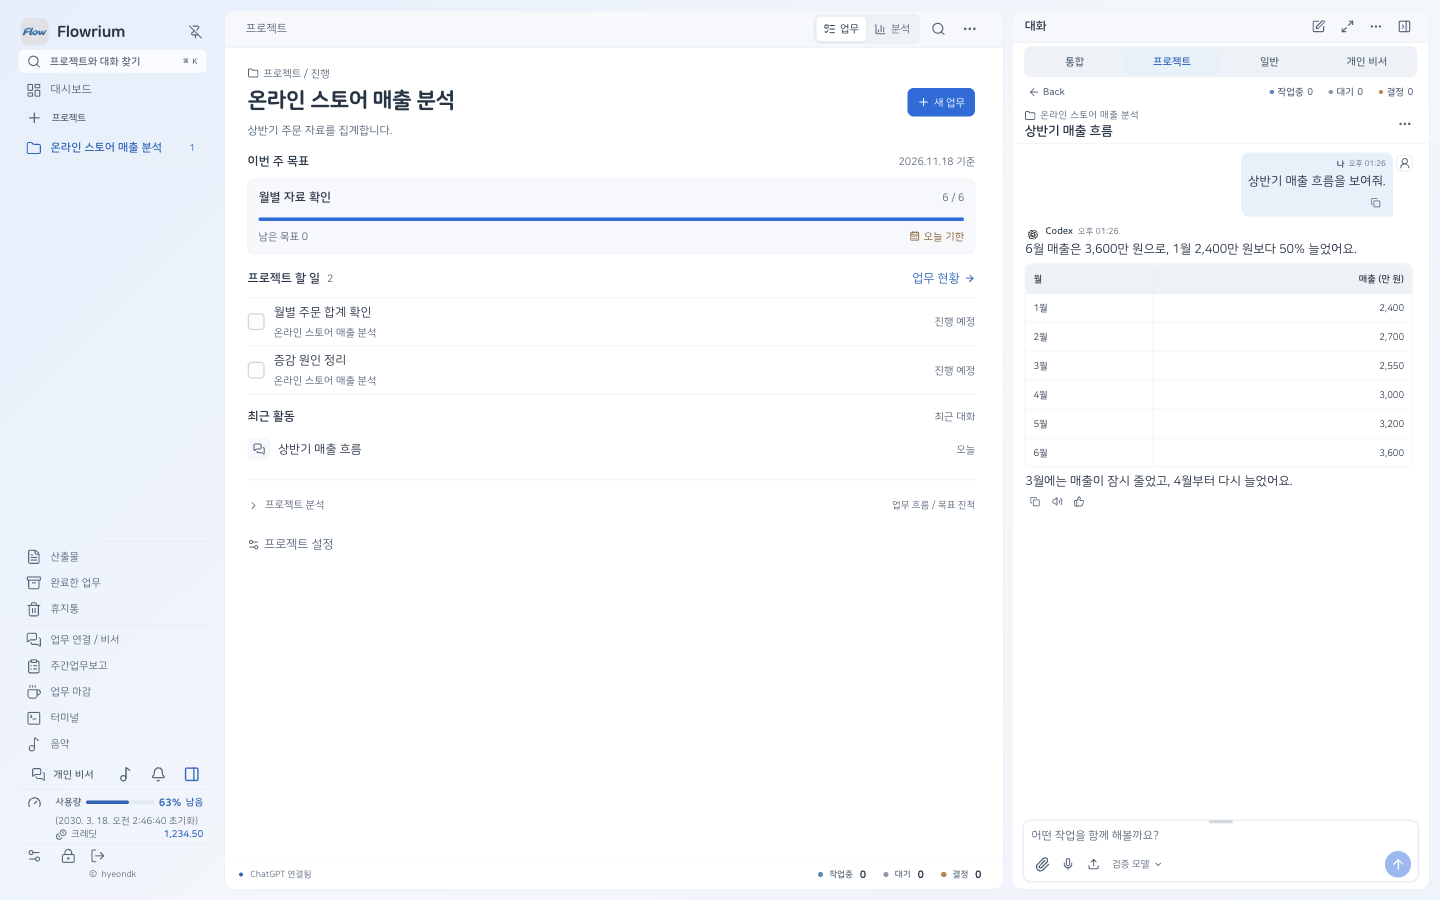
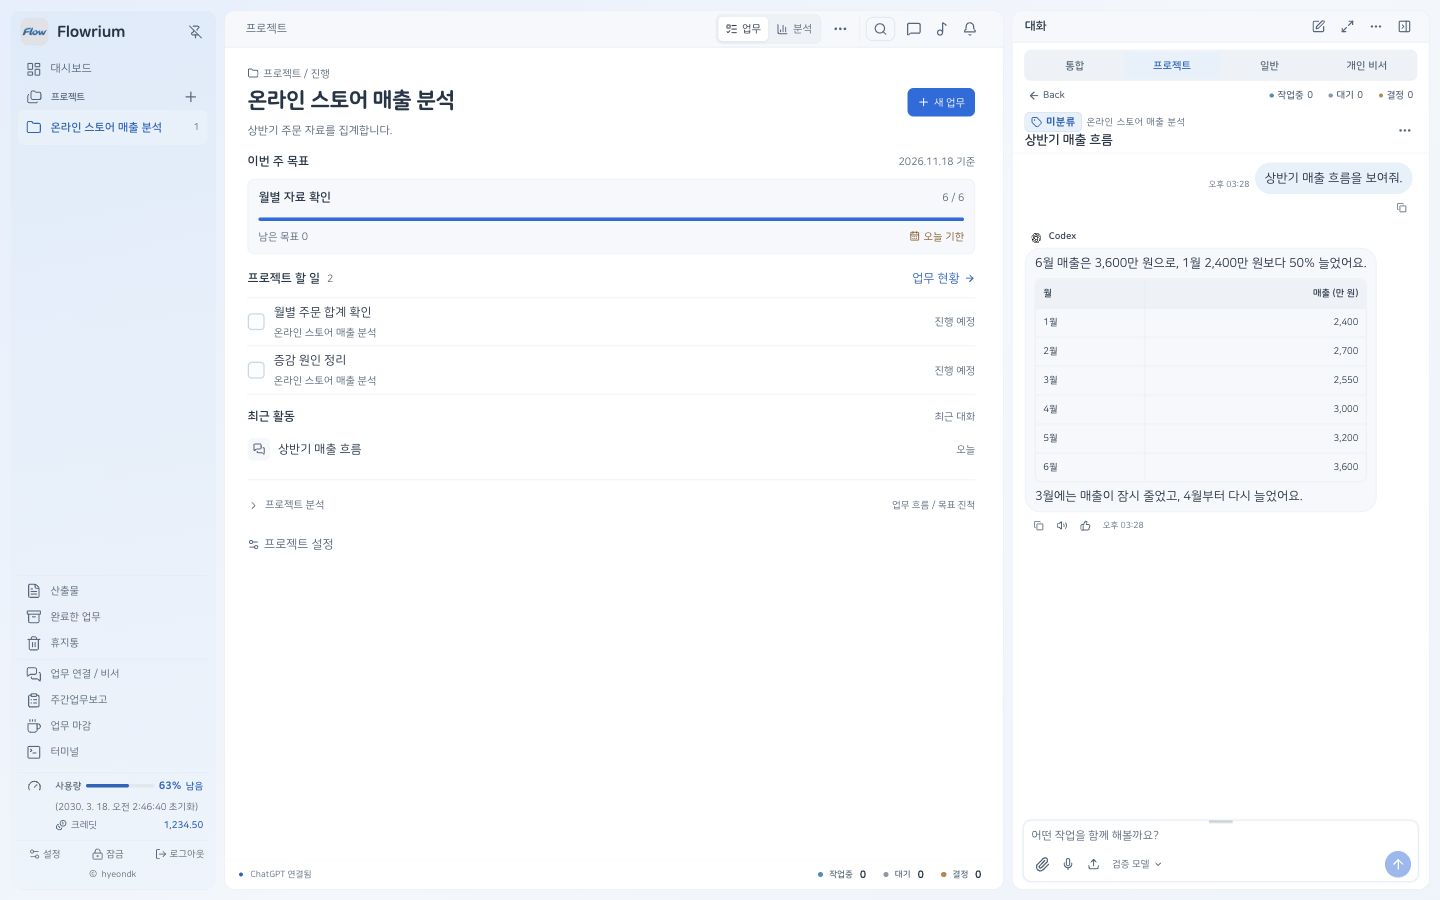
말풍선 밖에 시간과 복사를 배치하고 좁은 창 정렬을 검증

diff --git a/src/App.tsx b/src/App.tsx
@@ -1181,10 +1181,11 @@ function UnlockedWorkspace({security}:{security:ReturnType<typeof useSecurity>})
                       <article
                         className={`message ${message.role}`}
                         data-message-id={message.id}
+                        aria-label={message.role==="user"?"내 메시지":undefined}
                         key={message.id}
                       >
                         <div className="message-body">
-                          <div className="message-meta">
+                          {(message.role!=="user"||message.delegated)&&<div className="message-meta">
                         <span className={`message-avatar ${message.role}`}>
                           {message.role === "assistant" ? (
                             <img className="chatgpt-avatar" src={chatgptAvatar} width="24" height="24" alt="" draggable={false}/>
@@ -1201,14 +1202,9 @@ function UnlockedWorkspace({security}:{security:ReturnType<typeof useSecurity>})
                                   ? (message.delegated ? "전달된 요청" : "나")
                                   : "작업 상태"}
                             </strong>
-                            <time dateTime={message.createdAt}>
-                              {new Date(message.createdAt).toLocaleString(
-                                "ko-KR",
-                                message.role === "system" ? statusTime : messageTime,
-                              )}
-                            </time>
-
-                          </div>
+                          </div>}
+                          <div className="message-bubble-row">
+                          {message.role==="user"&&<time className="message-time" dateTime={message.createdAt}>{new Date(message.createdAt).toLocaleString("ko-KR",messageTime)}</time>}
                           <div className="message-bubble">
                           {Boolean(message.attachments?.length)&&project&&<ChatAttachmentList projectId={project.id} items={message.role==="assistant"?message.attachments!.filter(a=>!presentCitations(message.text).references.some(r=>r.attachmentId===a.id)):message.attachments!}/>}
                           <div className="markdown">
@@ -1218,6 +1214,7 @@ function UnlockedWorkspace({security}:{security:ReturnType<typeof useSecurity>})
                                 title={input.length||attachments.length?"입력창을 비우면 이 요청을 다시 담을 수 있습니다.":"요청을 입력창에 담아 다시 확인합니다."}
                                 onClick={()=>restoreFailedRequest(failedRequest)}>입력창에 다시 담기</button>}/>
                             {message.sourceOnly && <RequestSource sessionId={session.id} messageId={message.id}/>}
+                          </div>
                           </div>
                           </div>
                             <span className="message-meta-actions">
@@ -1251,6 +1248,7 @@ function UnlockedWorkspace({security}:{security:ReturnType<typeof useSecurity>})
                                   }}
                                 />
                               </>}
+                              {message.role!=="user"&&<time className="message-time" dateTime={message.createdAt}>{new Date(message.createdAt).toLocaleString("ko-KR",message.role==="system"?statusTime:messageTime)}</time>}
                             </span>
                         </div>
                       </article>

diff --git a/src/chat-workspace.css b/src/chat-workspace.css
@@ -120,6 +120,7 @@
 .conversation-dock .dock-project-name,.conversation-dock .dock-session-project{display:flex;align-items:center;gap:6px;min-width:0;flex-wrap:wrap}
 .conversation-dock .dock-project-name>strong,.conversation-dock .dock-session-project>span:last-child{min-width:0;word-break:keep-all;overflow-wrap:break-word}
 .conversation-dock .dock-project-name .project-category-label,.conversation-dock .dock-session-project .project-category-label{flex:none}
+.conversation-dock .dock-session-project{flex:1}
 .conversation-dock .dock-project-select {font-size:11px;line-height:16px;gap:4px;margin:1px 0 6px}
 .app-shell .conversation-dock .dock-browser .dock-project-select .choice-trigger {
   height:32px;min-height:32px;padding:4px 8px;border-radius:7px;font-size:12px;line-height:20px;
@@ -204,11 +205,14 @@
 .conversation-dock .message-body{min-width:0;width:auto;max-width:100%;padding:0;border:0;background:transparent;box-shadow:none}
 .conversation-dock .message-meta{display:flex;align-items:center;min-height:22px;margin:0 4px 4px;gap:6px;flex-wrap:nowrap;line-height:18px}
 .conversation-dock .message-meta strong{font-size:12px;line-height:18px;font-weight:700}
-.conversation-dock .message-meta time{flex:none;font-size:11px;line-height:18px;color:var(--muted);white-space:nowrap}
+.conversation-dock .message-time{flex:none;font-size:11px;line-height:18px;color:var(--muted);white-space:nowrap;font-variant-numeric:tabular-nums}
+.conversation-dock .message-bubble-row{display:flex;align-items:flex-end;gap:7px;min-width:0;max-width:100%}
+.conversation-dock .message-bubble-row>.message-bubble{flex:1;min-width:0}
 .conversation-dock .message-bubble{min-width:0;max-width:100%;padding:9px 12px;border:1px solid var(--line-soft);border-radius:20px;background:var(--card-subtle);box-shadow:none}
 .conversation-dock .message.assistant{margin-inline:0 auto}
-.conversation-dock .message.user{max-width:92%;margin-inline:auto 0}
+.conversation-dock .message.user{max-width:96%;margin-inline:auto 0}
 .conversation-dock .message.user .message-bubble{background:var(--accent-bg);border-color:transparent}
+.conversation-dock .message.user .message-bubble-row>.message-time{padding-bottom:3px}
 .conversation-dock .message.user .message-meta{justify-content:flex-end;gap:5px}
 .conversation-dock .message.system .message-bubble{padding:0;border:0;background:transparent}
 .conversation-dock .markdown,.conversation-dock .message .message-prose,.conversation-dock .message .message-prose p{
@@ -228,6 +232,7 @@
 .conversation-dock .markdown img{max-width:100%;height:auto}
 .conversation-dock .markdown :is(a,code){overflow-wrap:anywhere;word-break:normal}
 .conversation-dock .message-meta-actions{display:flex;align-items:center;gap:2px;margin:3px 3px 0}
+.conversation-dock .message-meta-actions>.message-time{margin-inline-start:6px}
 .conversation-dock .message.user .message-meta-actions{justify-content:flex-end;margin-top:3px;margin-inline:0}
 .conversation-dock .message-meta-actions .copy-message{opacity:1}
 .conversation-dock .message-meta-actions :is(.icon-button,.ui-like-button){display:inline-grid;place-items:center;flex:none;width:28px;height:28px;min-width:28px;min-height:28px;margin:0;padding:0;border:0;border-radius:8px;background:transparent;color:var(--muted)}

diff --git a/shared/release-notes.ts b/shared/release-notes.ts
@@ -5,7 +5,7 @@ export const releaseNotes: Readonly<Record<string,readonly string[]>>={
   '좌측 패널의 정렬을 다듬고 강조색에 맞춰 배경도 함께 바뀌게 했어요.',
   '설정의 높이를 일정하게 맞추고 최신 업데이트 기록을 추가했어요.',
   '선택 목록을 화면 위에 띄우고 공간에 맞춰 펼치게 했어요.',
-  '대화에 둥근 말풍선을 적용하고 복사 버튼과 발신자 정보를 정렬했어요.',
+  '대화에 둥근 말풍선을 적용하고 시각과 복사 버튼을 말풍선 밖에 배치했어요.',
   '대화 제목 옆에 문맥 사용량을 표시하고 동기화 설정을 정리했어요.',
   '음성 연결 안내가 5초 뒤 닫히게 했어요.',
   '맥의 첫 설치와 업데이트에서 나타날 수 있는 확인 창을 안내했어요.',

diff --git a/src/project-shortcuts.css b/src/project-shortcuts.css
@@ -1,4 +1,7 @@
 .project-shortcuts { word-break:keep-all; }
+.app-shell .pf-page .pf-content .project-shortcuts>.pf-section-header {flex-wrap:nowrap;align-items:center;gap:8px}
+.project-shortcuts>.pf-section-header>h2 {min-width:0}
+.project-shortcuts>.pf-section-header>button {flex:none;white-space:nowrap}
 .project-shortcut-list { display:grid; grid-template-columns:repeat(auto-fit,minmax(min(100%,260px),1fr)); gap:10px; margin:14px 0; }
 .project-shortcut-list article { min-width:0; padding:14px; border:1px solid var(--border); border-radius:12px; background:var(--panel-alt,var(--surface)); }
 .project-shortcut-summary { display:flex; gap:9px; align-items:center; min-height:32px; }

diff --git a/docs/release-notes.md b/docs/release-notes.md
@@ -4,7 +4,7 @@
 - 왼쪽 메뉴의 로고, 대시보드, 프로젝트 목록을 정렬하고 하단 버튼에 이름을 표시했어요. 강조색에 맞춰 왼쪽 메뉴 배경도 바뀌게 했어요.
 - 설정 창의 높이를 일정하게 유지하고 일반 탭에 최신 업데이트 기록을 추가했어요.
 - 선택 목록을 화면 위에 띄우고 열 수 있는 공간에 맞춰 아래나 위로 펼치게 했어요.
-- 양쪽 대화에 둥근 말풍선을 적용하고 사용자 메시지의 복사 버튼을 말풍선 밖으로 옮겼어요. Codex 아이콘과 이름, 시각도 한 줄에 맞췄어요.
+- 내 메시지는 오른쪽, Codex 답변은 왼쪽의 둥근 말풍선으로 표시했어요. 시각과 복사 버튼을 말풍선 밖에 배치하고 Codex 아이콘과 이름은 한 줄에 정렬했어요.
 - 문맥 토큰 사용량을 대화 설정 아이콘 옆에 표시하고 자동 동기화 버튼을 정렬했어요. 음성 연결 안내는 5초 뒤에 닫히게 했어요.
 - 프로젝트와 대화 찾기의 단축키 표기를 조금 키웠어요.
 
